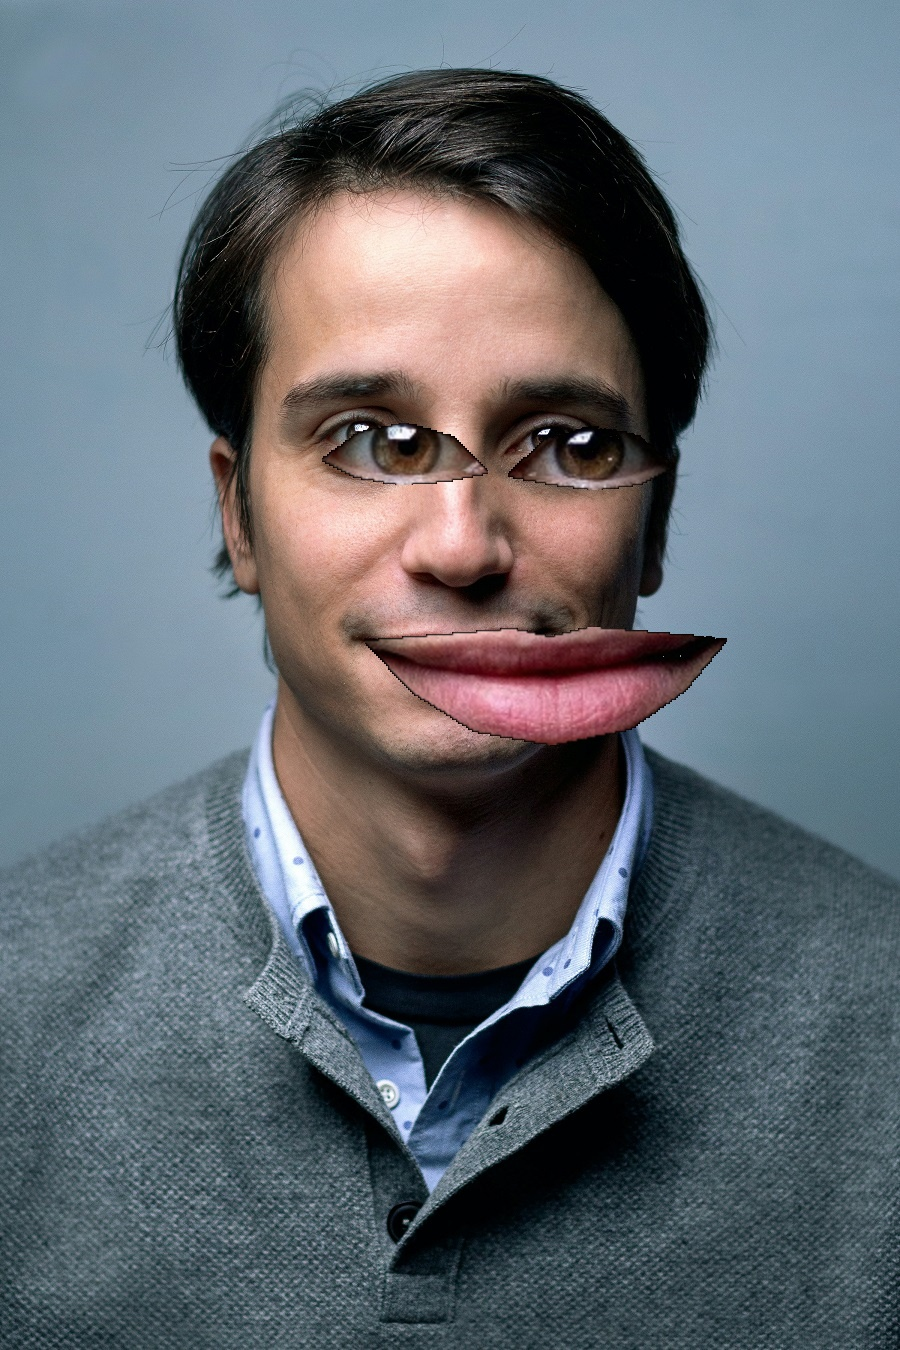
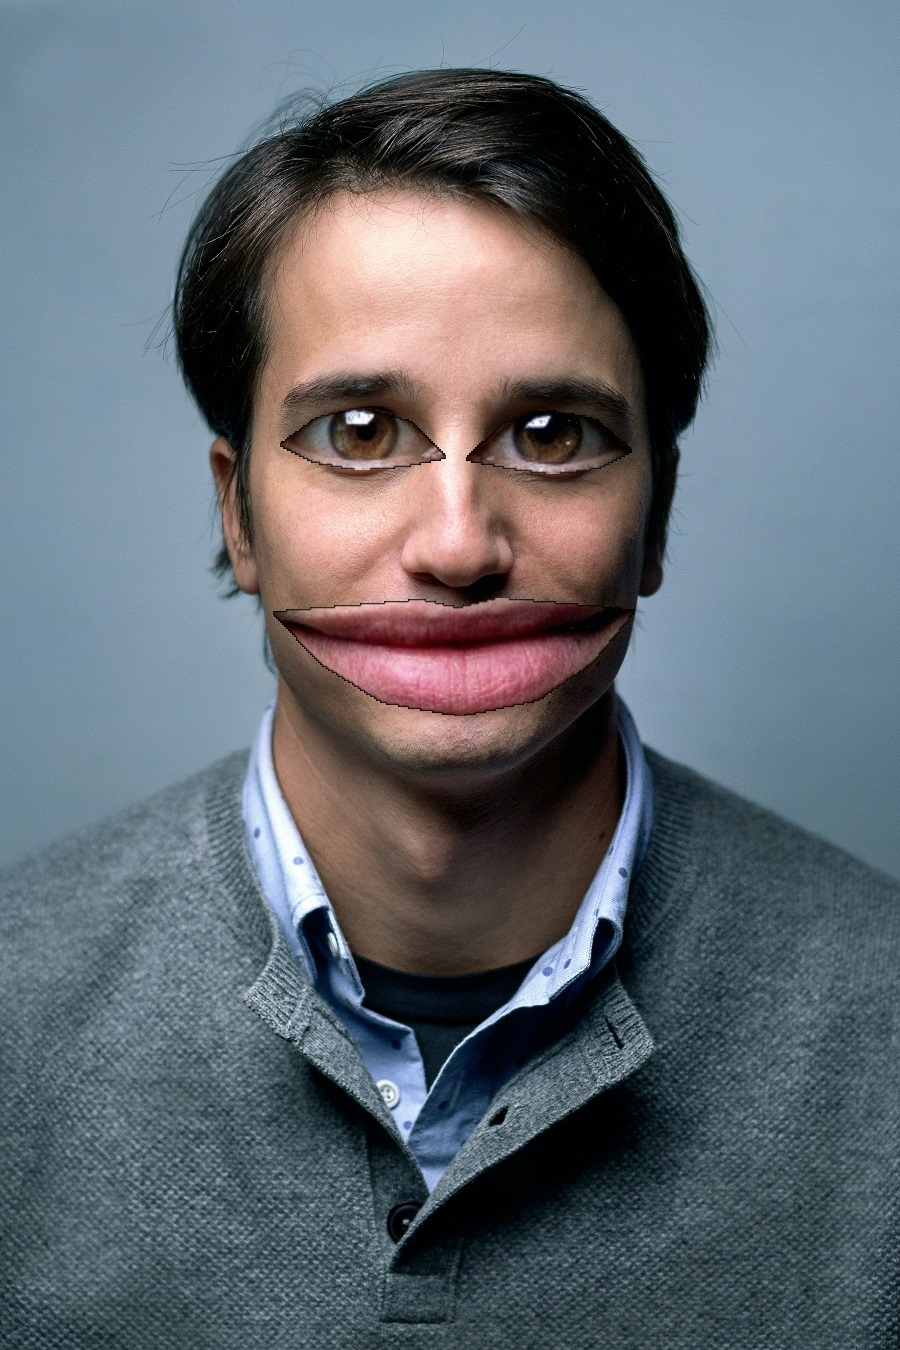
10th commit

Changed region(s): [[0.3111, 0.4356, 0.8089, 0.56], [0.3111, 0.28, 0.7467, 0.3733]]

diff --git a/PyLearn7-Assignment30/eyes and lips filter/inference_image_1.py b/PyLearn7-Assignment30/eyes and lips filter/inference_image_1.py
@@ -62,9 +62,9 @@ def zoom_effect (file_path):
             for i in range(hh):
                 for j in range(ww):
                     if result_big[i][j][0] == 0 and result_big[i][j][1] == 0 and result_big[i][j][2] == 0:
-                        result_big[i][j] = image[y+i, x+j]
-        
-            image[y:y + hh, x:x + ww] = result_big
+                        result_big[i][j] = image[y-hh//4+i, int(x-ww//3.9)+j]
+    
+            image[y-hh//4:y-hh//4 + hh, int(x-ww//3.9):int(x-ww//3.9) + ww] = result_big
         # if landmark == "lips":
         #     for i in range(hh):
         #         for j in range(ww):
@@ -79,7 +79,7 @@ def zoom_effect (file_path):
     
     print(time.perf_counter() - start_time)
 
-    cv2.imshow("result", result_big)
+    # cv2.imshow("result", result_big)
     cv2.waitKey()
     # cv2.imwrite("output/" + landmark + ".jpg", result_big)
     cv2.imwrite("output/result.jpg", image)
